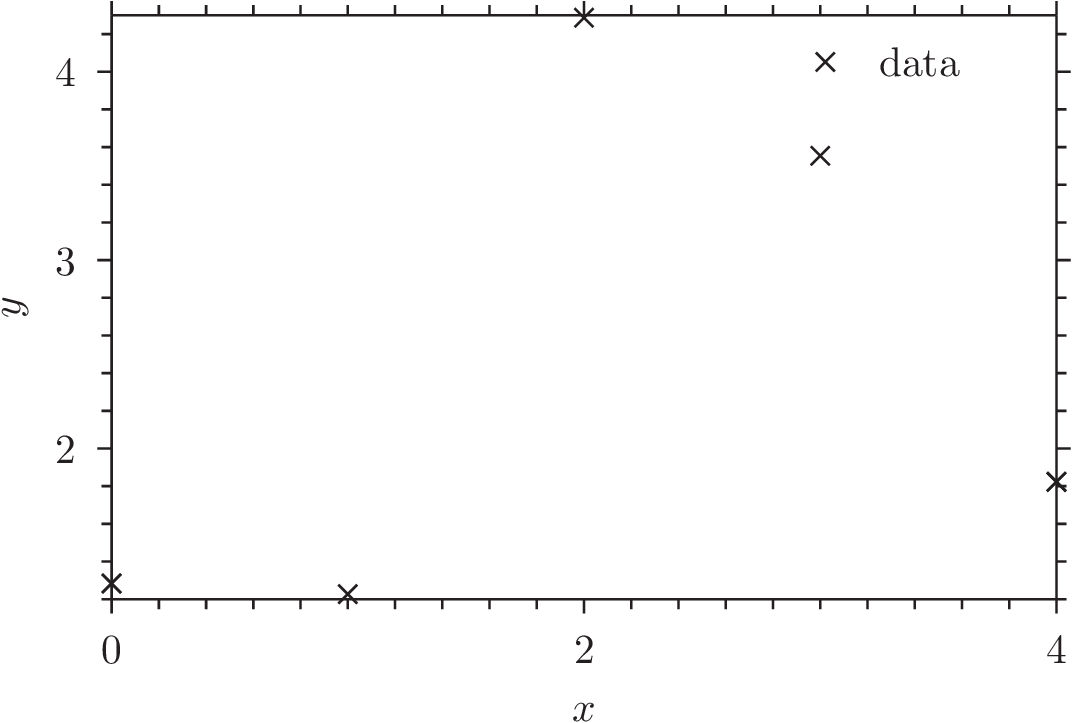
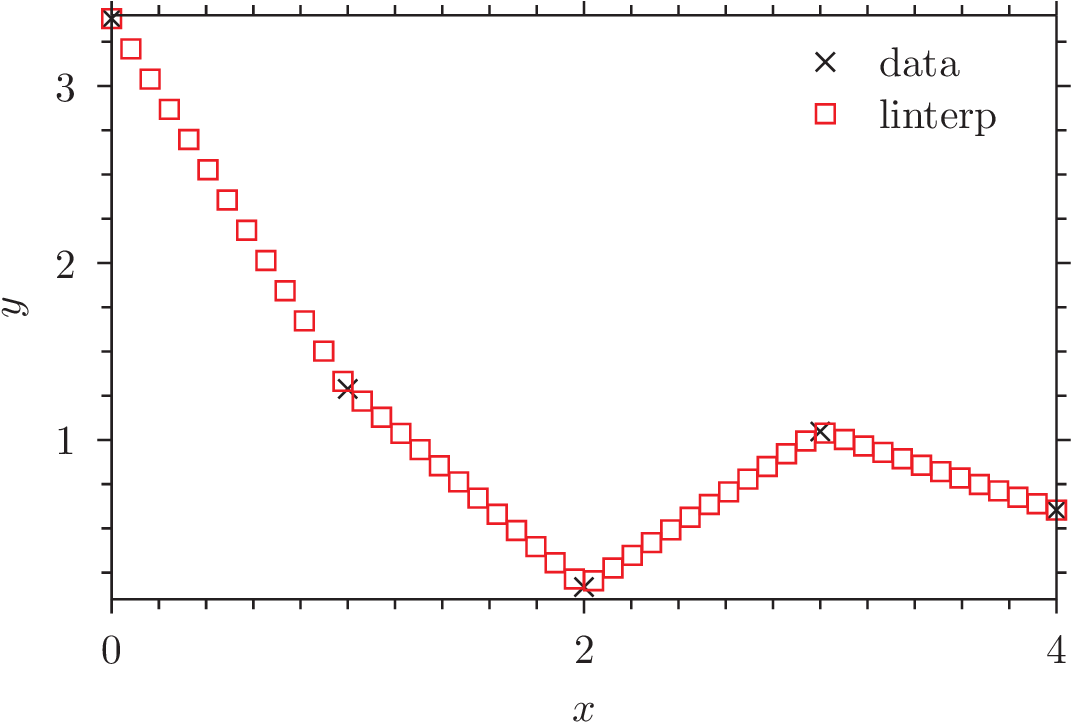
homework splines A done

diff --git a/homework/11-splines/A/main.cs b/homework/11-splines/A/main.cs
@@ -1,9 +1,8 @@
-using System;
 using static System.Console;
 using static System.Math;
 
 class main{
-	static void Main(){
+	public static void Main(){
 		var rnd=new System.Random();
 		int n=5,N=10*n;
 		var x=new double[n];
@@ -15,27 +14,11 @@ class main{
 			}
 
 		WriteLine();
-	
+		WriteLine();
+
 		for(int j=0;j<N;j++){
-			double z=x[0]+j*(x[n-1]-x[0]/(N-1));
-			WriteLine($"{z} {linterp(x,y,z)}");
+			double z=x[0]+j*(x[n-1]-x[0])/(N-1);
+			WriteLine($"{z} {lint.linterp(x,y,z)}");
 			}
-	}
-
-	public static double linterp(double[] x, double[] y, double z){
-		int i = binsearch(x,z);
-		double dx=x[i+1]-x[i]; if(!(dx>0)) throw new Exception("linterp: dx<0");
-		double dy=y[i+1]-y[i];
-	return y[i]+dy/dx*(z-x[i]);
-	}
-
-	public static int binsearch(double[] x, double z){
-		if(!(x[0]<=z && z<=x[x.Length-1])) throw new Exception("binsearch: bad z");
-		int i=0, j=x.Length-1;
-		while(j-i>1){
-			int mid=(i+j)/2;
-			if(z>x[mid]) i=mid; else j=mid;
-			}
-	return i;
 	}
 }

diff --git a/homework/11-splines/A/lint.cs b/homework/11-splines/A/lint.cs
@@ -1,0 +1,20 @@
+using System;
+public static partial class lint{
+
+public static double linterp(double[] x, double[] y, double z){
+		int i = binsearch(x,z);
+		double dx=x[i+1]-x[i]; if(!(dx>0)) throw new Exception("linterp: dx<0");
+		double dy=y[i+1]-y[i];
+	return y[i]+dy/dx*(z-x[i]);
+	}
+
+	public static int binsearch(double[] x, double z){
+		if(!(x[0]<=z && z<=x[x.Length-1])) throw new Exception("binsearch: bad z");
+		int i=0, j=x.Length-1;
+		while(j-i>1){
+			int mid=(i+j)/2;
+			if(z>x[mid]) i=mid; else j=mid;
+			}
+	return i;
+	}
+}
